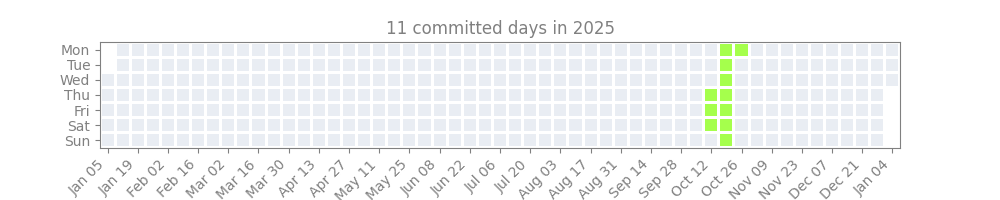
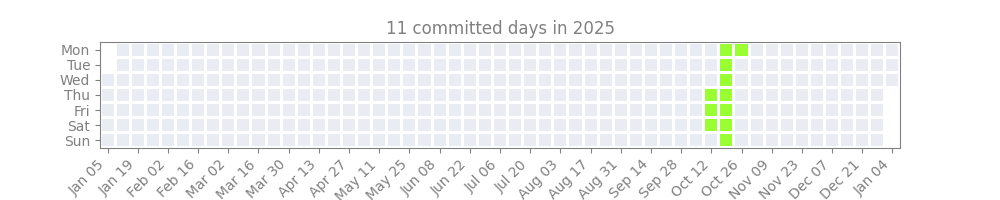
minor

Changed region(s): [[0.682, 0.21, 0.775, 0.75]]

diff --git a/daily_challenge/__init__.py b/daily_challenge/__init__.py
@@ -94,7 +94,7 @@ def draw_yearly_heatmap(year, commit_dates=None, output_file=None):
 
     # Define colors for the squares
     # colors = {1: (245/255, 245/255, 245/255, 0.65), 2: (127/255, 255/255, 0, 1), -1: 'none'}  # Previous colors: Whitesmoke with transparency
-    colors = {1: (94/255, 123/255, 166/255, 0.1386), 2: (127/255, 255/255, 0, 0.7), -1: 'none'}
+    colors = {1: (94/255, 123/255, 166/255, 0.1386), 2: (127/255, 255/255, 0, 0.8), -1: 'none'}
 
     # Define the gap size
     gap = 0.2
